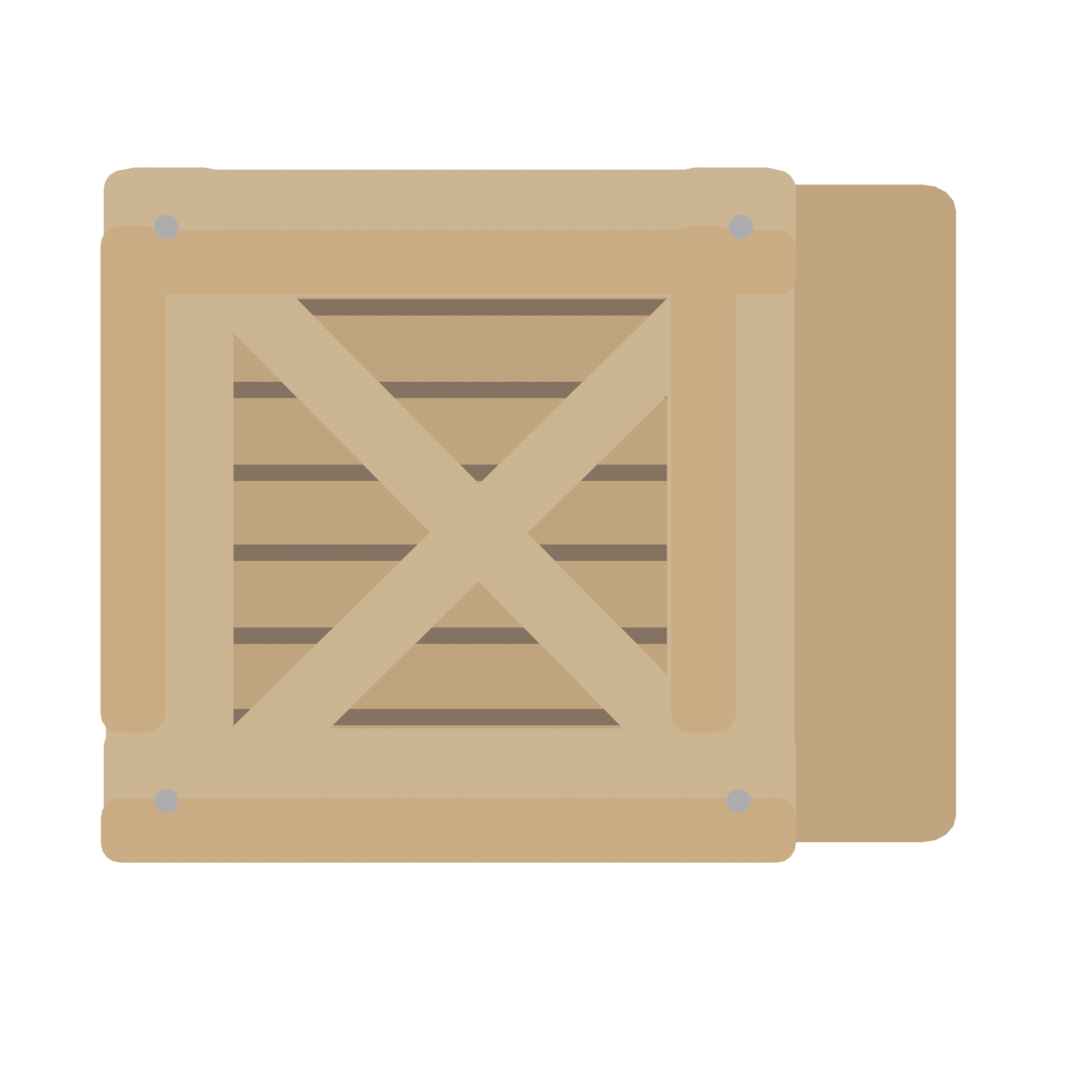
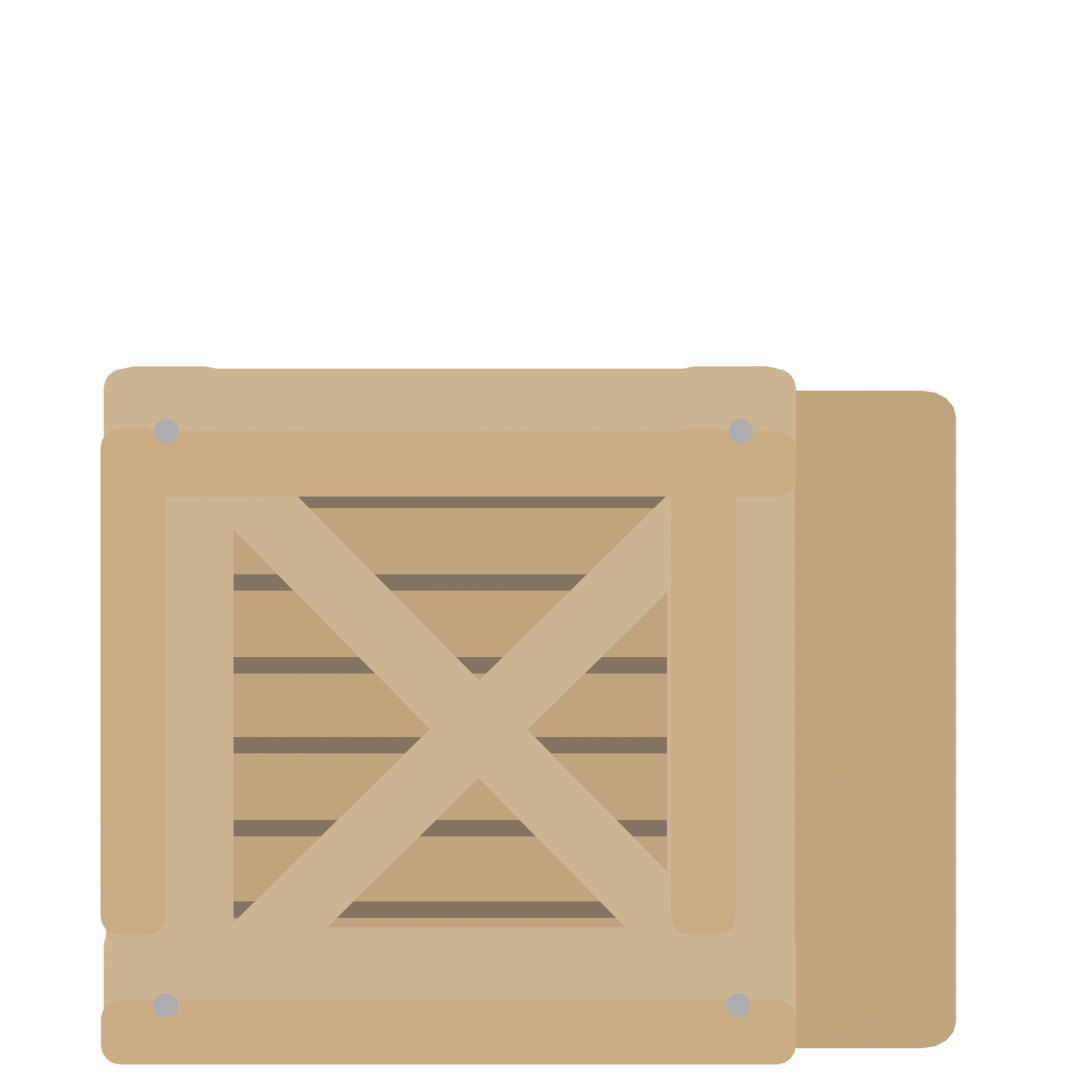
finish basic winlose

diff --git a/Earth/src/Services/BetNRun2/BetNRun2Service.ts b/Earth/src/Services/BetNRun2/BetNRun2Service.ts
@@ -2,8 +2,9 @@ import { AssetKeyEnum } from "../../Enums/BetNRun2/AssetKeyEnum";
 import { GameStepEnum } from "../../Enums/BetNRun2/GameStepEnum";
 import { ImageHelper } from "../../Helpers/ImageHelper";
 import { Background } from "../../models/BetNRun2/Background";
-import type { Crate } from "../../models/BetNRun2/Crate";
+import { Crate, CrateTypeEnum } from "../../models/BetNRun2/Crate";
 import { Player } from "../../models/BetNRun2/Player";
+import { BinaryResultService } from "../BinaryResultService";
 
 export class BetNRun2Service {
   private scene: Phaser.Scene;
@@ -13,26 +14,87 @@ export class BetNRun2Service {
   spaceKey: Phaser.Input.Keyboard.Key;
   gameStep: GameStepEnum = GameStepEnum.start;
   gamePreviousStep: GameStepEnum = GameStepEnum.none;
+  binaryResultService: BinaryResultService;
+  isCrateOnPlayerSpawned: boolean = false;
   
   constructor(scene: Phaser.Scene) {
     this.scene = scene;
     this.background = new Background(this.scene, this.scene.textures.get(AssetKeyEnum.background));
-    this.player = new Player(this.scene, this.scene.textures.get(ImageHelper.getFirstFrameOfPngSequenceTextures(AssetKeyEnum.standingPlayer)));
+    this.player = new Player(this.scene, this.background, this.scene.textures.get(ImageHelper.getFirstFrameOfPngSequenceTextures(AssetKeyEnum.standingPlayer)));
     this.crates = [];
+    this.binaryResultService = new BinaryResultService();
     
     this.spaceKey = this.scene.input.keyboard?.addKey(Phaser.Input.Keyboard.KeyCodes.SPACE);
   }
   update() {
+    this.awaitForBet();
     if (Phaser.Input.Keyboard.JustDown(this.spaceKey)) {
-      console.log("Space key pressed!");
-      this.
+      this.raiseBet();
+      this.placeBet();
+    }
+    this.settleBet();
+    this.settleGameLose();
+    this.settleGameWin();
+    this.player.update();
+    this.crates.forEach(crate => crate.update());
+  }
+  settleBet() {
+    if(this.gameStep === GameStepEnum.settlingBet){
+      if(this.player.isOnTargetTile()){
+        let isWin = this.binaryResultService.getResult();
+        if(isWin){
+          this.setNextGameStep(GameStepEnum.betSettledWin);
+        }
+        else{
+          this.setNextGameStep(GameStepEnum.betSettledLose);
+        }
+      } 
+    }
+  }
+  settleGameLose() {
+    if(this.gameStep === GameStepEnum.betSettledLose){
+      this.spawnCrateOnPlayer(this.player.x, this.player.y);
+      let crateThatIsOnPlayer = this.crates.find(crate => crate.crateId === CrateTypeEnum[CrateTypeEnum.spawnOnPlayer]);
+      if(crateThatIsOnPlayer && crateThatIsOnPlayer.isOnGround()){
+        this.setNextGameStep(GameStepEnum.gameOver);
+      }
+    }
+  }
+  spawnCrateOnPlayer(playerX: number, playerY: number) {
+    if(!this.isCrateOnPlayerSpawned){
+      let crate = new Crate(this.scene, this.background, CrateTypeEnum[CrateTypeEnum.spawnOnPlayer], this.scene.textures.get(AssetKeyEnum.crate));
+      crate.x = playerX;
+      this.crates.push(crate);
+      crate.create();
+      this.isCrateOnPlayerSpawned = true;
+      console.log("Crate already spawned on player");
+    }
+  }
+  settleGameWin() {
+    if(this.gameStep === GameStepEnum.betSettledWin){
+      this.setNextGameStep(GameStepEnum.awaitingRaiseBet);
+    }
+  }
+  placeBet() {
+    if(this.gameStep === GameStepEnum.awaitingBet){
+      this.setNextGameStep(GameStepEnum.awaitingRaiseBet);
+    }
+  }
+  awaitForBet() {
+    if(this.gameStep === GameStepEnum.start){
+      this.setNextGameStep(GameStepEnum.awaitingBet);
+    }
+  }
+  raiseBet() {
+    if (this.gameStep === GameStepEnum.awaitingRaiseBet){
+      this.setNextGameStep(GameStepEnum.settlingBet);
       this.movePlayerToNextPosition();
     }
-    this.player.update();
-    this.doIfPlayerIsOnTargetTile();
   }
-  doIfPlayerIsOnTargetTile() {
-    throw new Error("Method not implemented.");
+  setNextGameStep(newGameStep: GameStepEnum) {
+    this.gamePreviousStep = this.gameStep;
+    this.gameStep = newGameStep;
+    console.log("Game Step: " + GameStepEnum[this.gameStep]);
   }
   movePlayerToNextPosition() {
     this.player.moveToNextTile(1);

diff --git a/Earth/src/models/BetNRun2/Player.ts b/Earth/src/models/BetNRun2/Player.ts
@@ -1,4 +1,5 @@
 import { AssetKeyEnum } from "../../Enums/BetNRun2/AssetKeyEnum";
+import type { Background } from "./Background";
 import { GameObjectBase } from "./GameObjectBase";
 
 export class Player extends GameObjectBase {
@@ -8,13 +9,15 @@ export class Player extends GameObjectBase {
     TileSize: number = 235;
     TargetTile: number = this.PlayerInitX;
     Speed: number = 3;
-    constructor (scene: Phaser.Scene, texture: Phaser.Textures.Texture) {
+    private background: Background;
+    constructor (scene: Phaser.Scene, background: Background, texture: Phaser.Textures.Texture) {
         super(
             scene,
             texture
         );
+        this.background = background;
         this.x = this.PlayerInitX;
-        this.y = this.PlayerInitY;
+        this.y = this.background.groundY;
     }
 
     override update(...args: any[]): void {
@@ -39,9 +42,12 @@ export class Player extends GameObjectBase {
     isNotOnTargetTile(): boolean {
         return this.x < this.TargetTile;
     }
+    isOnTargetTile(): boolean {
+        return this.x >= this.TargetTile;
+    }
 
     override create() {
-        this.setOrigin(0.5, 0);
+        this.setOrigin(0.5, 1);
         this.setScale(this.scaleX * this.ScaleMultiplier, this.scaleY * this.ScaleMultiplier);
         this.stand();
         super.create();

diff --git a/Earth/src/models/BetNRun2/Crate.ts b/Earth/src/models/BetNRun2/Crate.ts
@@ -1,8 +1,44 @@
+import type { Background } from "./Background";
 import { GameObjectBase } from "./GameObjectBase";
 
 export class Crate extends GameObjectBase {
 
-    constructor(scene: Phaser.Scene, texture: Phaser.Textures.Texture){
+    private background: Background;
+    crateId: string;
+    scaleMultiplier: number = 0.3;
+    fallSpeed: number = 0;
+
+    constructor(scene: Phaser.Scene, background: Background, crateId: string, texture: Phaser.Textures.Texture){
         super(scene, texture);
+        this.background = background;
+        this.crateId = crateId;
     }
+
+    override update(...args: any[]): void {
+        this.fallIfNotOnGround();
+    }
+
+    override create(): void {
+        this.setOrigin(0.5, 1);
+        this.setScale(this.scaleX * this.scaleMultiplier, this.scaleY * this.scaleMultiplier);
+        super.create();
+    }
+    fallIfNotOnGround() {
+        if(!this.isOnGround()){
+            this.y += this.fallSpeed;
+            this.fallSpeed += 0.1;
+        }
+        else{
+            this.y = this.background.groundY;
+            this.fallSpeed = 0;
+        }
+    }
+    isOnGround() {
+        return this.y >= this.background.groundY
+    }
+}
+
+export enum CrateTypeEnum {
+    spawnOnPlayer = "spawnOnPlayer",
+    randomSpawn = "randomSpawn",
 }

diff --git a/Earth/src/models/BetNRun2/Background.ts b/Earth/src/models/BetNRun2/Background.ts
@@ -4,6 +4,7 @@ export class Background extends GameObjectBase {
     BackgroundX: number = 0;
     BackgroundY: number = 0;
     SclaleMultiplier = 0.85;
+    groundY: number = 567;
     constructor (scene: Phaser.Scene, texture: Phaser.Textures.Texture) {
         super(
             scene,

diff --git a/Earth/src/Services/BinaryResultService.ts b/Earth/src/Services/BinaryResultService.ts
@@ -1,0 +1,10 @@
+export class BinaryResultService{
+    private results: boolean[] = [];
+    winRate: number = 0.5;
+
+    getResult():boolean{
+        let isWin = Phaser.Math.Between(0,1) < this.winRate;
+        this.results.push(isWin);
+        return isWin;
+    }
+}
